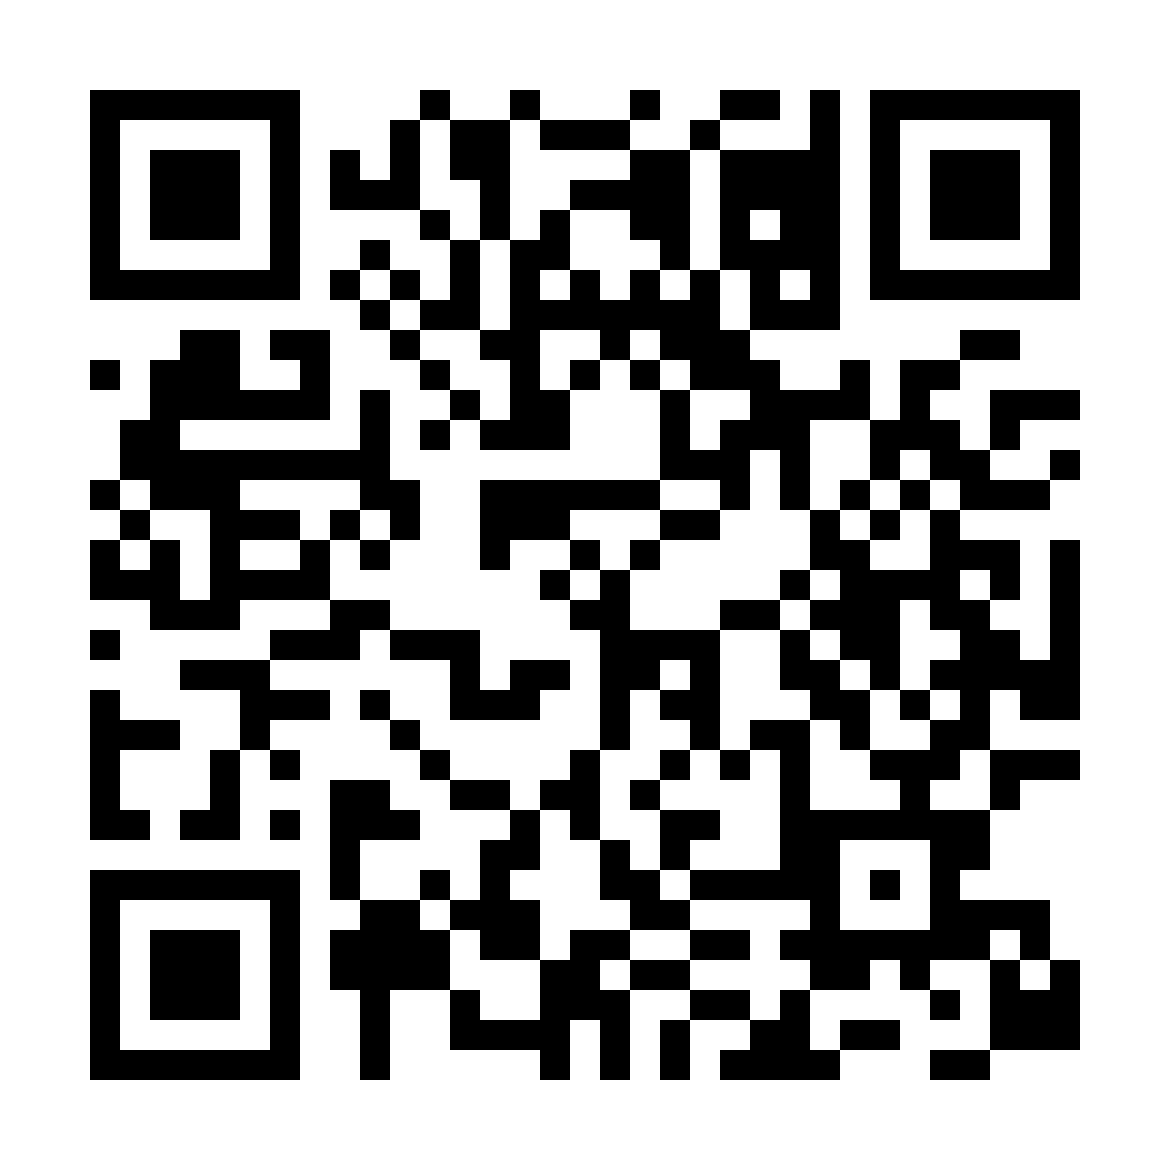
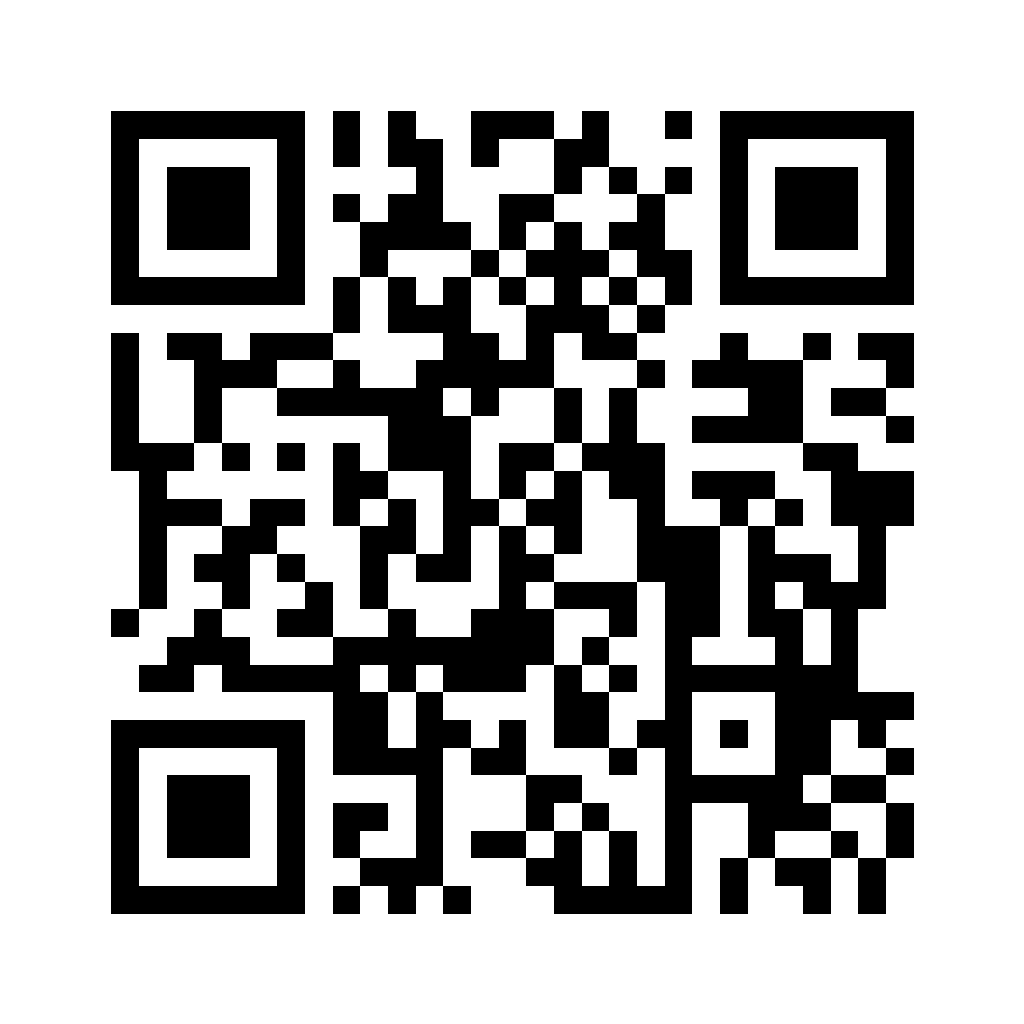
Update Personal Hub payment amount

diff --git a/scripts.js b/scripts.js
@@ -54,8 +54,8 @@ const translations = {
     serviceStatus: "Private beta",
     serviceTitle: "Personal Device Hub",
     serviceText: "Private Tailscale device hub for your own computers.",
-    servicePriceLabel: "One-time down payment",
-    servicePrice: "150 THB",
+    servicePriceLabel: "One-time payment",
+    servicePrice: "3000 THB",
     servicePriceNote: "Tailscale is required. Pay once for private beta setup access.",
     paymentStepOne: "Install or open Tailscale first.",
     paymentStepTwo: "Click Ready to pay when you are prepared to scan.",
@@ -64,13 +64,13 @@ const translations = {
     paymentReadyButton: "Ready to pay",
     paymentReadyNote: "This guide explains the app. The self-hosted package is sent after payment approval.",
     qrEyebrow: "Thai QR Payment",
-    qrTitle: "Scan TrueMoney for the 150 THB payment",
+    qrTitle: "Scan TrueMoney for the 3000 THB payment",
     qrText: "Tap the TrueMoney link or scan this fixed-amount QR, then upload your slip here. You do not need Telegram.",
-    openTrueMoneyLink: "Open 150 THB TrueMoney link",
+    openTrueMoneyLink: "Open 3000 THB TrueMoney link",
     trueMoneyHelpText: "If TrueMoney does not work for you, message us on Telegram before paying.",
     trueMoneyHelpLink: "Message @zalon123",
     slipCheckTitle: "Slip review required",
-    slipCheckText: "Access is approved only when the slip matches this TrueMoney account, exactly 150 THB, and your name. Wrong or reused slips are denied.",
+    slipCheckText: "Access is approved only when the slip matches this TrueMoney account, exactly 3000 THB, and your name. Wrong or reused slips are denied.",
     copied: "Copied",
     serviceButton: "Ask before paying",
     downloadSetupGuide: "Download setup guide",
@@ -170,8 +170,8 @@ const translations = {
     serviceStatus: "Private beta",
     serviceTitle: "Personal Device Hub",
     serviceText: "ကိုယ်ပိုင် computer များအတွက် private Tailscale device hub။",
-    servicePriceLabel: "တစ်ကြိမ် down payment",
-    servicePrice: "150 THB",
+    servicePriceLabel: "တစ်ကြိမ် payment",
+    servicePrice: "3000 THB",
     servicePriceNote: "Tailscale လိုအပ်သည်။ Private beta setup access အတွက် တစ်ကြိမ်သာ ပေးချေရန်။",
     paymentStepOne: "Tailscale ကို အရင် install/open လုပ်ပါ။",
     paymentStepTwo: "Scan လုပ်ရန် အသင့်ဖြစ်မှ Ready to pay ကို နှိပ်ပါ။",
@@ -180,13 +180,13 @@ const translations = {
     paymentReadyButton: "ပေးချေရန် အသင့်ဖြစ်ပြီ",
     paymentReadyNote: "ဤ guide သည် app အသုံးပြုပုံကို ရှင်းပြထားသည်။ Self-hosted package ကို payment approve ပြီးမှ ပို့ပါမည်။",
     qrEyebrow: "Thai QR Payment",
-    qrTitle: "150 THB payment အတွက် TrueMoney ကို Scan လုပ်ပါ",
+    qrTitle: "3000 THB payment အတွက် TrueMoney ကို Scan လုပ်ပါ",
     qrText: "TrueMoney link ကို နှိပ်ပါ သို့မဟုတ် fixed amount QR ကို scan လုပ်ပါ၊ ပြီးနောက် slip ပုံကို ဒီမှာ upload လုပ်ပါ။ Telegram မလိုပါ။",
-    openTrueMoneyLink: "150 THB TrueMoney link ဖွင့်ရန်",
+    openTrueMoneyLink: "3000 THB TrueMoney link ဖွင့်ရန်",
     trueMoneyHelpText: "TrueMoney ဖြင့် ပေးချေမရပါက မပေးချေမီ Telegram တွင် message ပို့ပါ။",
     trueMoneyHelpLink: "@zalon123 သို့ message ပို့ရန်",
     slipCheckTitle: "Slip စစ်ဆေးပြီးမှ approve",
-    slipCheckText: "Slip သည် ဤ TrueMoney account၊ 150 THB အတိအကျ၊ နှင့် သင့်နာမည်တို့နှင့် ကိုက်ညီမှ access approve လုပ်ပါမည်။ မှားသော သို့မဟုတ် ပြန်သုံးထားသော slip များကို deny လုပ်ပါမည်။",
+    slipCheckText: "Slip သည် ဤ TrueMoney account၊ 3000 THB အတိအကျ၊ နှင့် သင့်နာမည်တို့နှင့် ကိုက်ညီမှ access approve လုပ်ပါမည်။ မှားသော သို့မဟုတ် ပြန်သုံးထားသော slip များကို deny လုပ်ပါမည်။",
     copied: "Copy ပြီးပါပြီ",
     serviceButton: "မပေးခင် မေးရန်",
     downloadSetupGuide: "Setup guide download လုပ်ရန်",

diff --git a/index.html b/index.html
@@ -216,11 +216,11 @@
                 <h3 data-i18n="serviceTitle">Personal Device Hub</h3>
                 <p data-i18n="serviceText">Private Tailscale device hub for your own computers.</p>
               </div>
-              <strong data-i18n="servicePrice">150 THB</strong>
+              <strong data-i18n="servicePrice">3000 THB</strong>
             </div>
 
-            <div class="payment-row" aria-label="Personal Device Hub down payment price">
-              <span data-i18n="servicePriceLabel">One-time down payment</span>
+            <div class="payment-row" aria-label="Personal Device Hub one-time payment price">
+              <span data-i18n="servicePriceLabel">One-time payment</span>
               <small data-i18n="servicePriceNote">Tailscale is required. Pay once for private beta setup access.</small>
             </div>
 
@@ -247,16 +247,16 @@
           <i class="fas fa-xmark" aria-hidden="true"></i>
         </button>
         <div class="qr-frame">
-          <img data-qr-src="./img/personal-hub-thai-payment-qr.png" alt="Fixed 150 THB TrueMoney payment link QR for Personal Device Hub">
+          <img data-qr-src="./img/personal-hub-thai-payment-qr.png" alt="Fixed 3000 THB TrueMoney payment link QR for Personal Device Hub">
         </div>
         <div>
           <span class="eyebrow" data-i18n="qrEyebrow">Thai QR Payment</span>
-          <h3 id="payment-dialog-title" data-i18n="qrTitle">Scan TrueMoney for the 150 THB payment</h3>
+          <h3 id="payment-dialog-title" data-i18n="qrTitle">Scan TrueMoney for the 3000 THB payment</h3>
           <p data-i18n="qrText">After payment, enter your name and upload the slip picture here. You do not need Telegram.</p>
           <div class="payment-actions">
-            <a class="primary-button" href="https://tmn.app.link/y4SAhfU1Q5b" target="_blank" rel="noopener noreferrer">
+            <a class="primary-button" href="https://tmn.app.link/oYZw98YDT5b" target="_blank" rel="noopener noreferrer">
               <i class="fas fa-wallet" aria-hidden="true"></i>
-              <span data-i18n="openTrueMoneyLink">Open 150 THB TrueMoney link</span>
+              <span data-i18n="openTrueMoneyLink">Open 3000 THB TrueMoney link</span>
             </a>
           </div>
           <p class="payment-help">
@@ -265,7 +265,7 @@
           </p>
           <div class="slip-check">
             <strong data-i18n="slipCheckTitle">Slip review required</strong>
-            <p data-i18n="slipCheckText">Access is approved only when the slip matches this TrueMoney account, exactly 150 THB, and your name. Wrong or reused slips are denied.</p>
+            <p data-i18n="slipCheckText">Access is approved only when the slip matches this TrueMoney account, exactly 3000 THB, and your name. Wrong or reused slips are denied.</p>
           </div>
           <form class="payment-form" data-payment-form enctype="multipart/form-data">
             <input type="text" name="website" tabindex="-1" autocomplete="off" aria-hidden="true">

diff --git a/api/payment-slip.js b/api/payment-slip.js
@@ -179,7 +179,7 @@ async function sendSlipToTelegram({ requestId, fields, file, request }) {
   const name = clean(fields.name, 80);
   const email = clean(fields.email, 120).toLowerCase();
   const host = clean(request.headers.host, 120);
-  const expectedAmount = clean(process.env.PAYMENT_EXPECTED_AMOUNT || "150 THB", 40);
+  const expectedAmount = clean(process.env.PAYMENT_EXPECTED_AMOUNT || "3000 THB", 40);
 
   const message = [
     "Paid User payment slip",

diff --git a/downloads/personal-device-hub-setup-readme.md b/downloads/personal-device-hub-setup-readme.md
@@ -11,7 +11,7 @@ The real app installer is not inside this file. After your payment slip is appro
 ## How You Use The App
 
 1. Install Tailscale on your own computers and sign in.
-2. Pay the `150 THB` down payment on the Echtit Services page.
+2. Pay the `3000 THB` one-time payment on the Echtit Services page.
 3. Submit your name, Gmail address, and payment slip picture in the web form.
 4. Wait for manual approval.
 5. Receive your self-hosted private install zip by Gmail within one day after approval.
@@ -36,23 +36,23 @@ You need:
 1. Open the Echtit Services section.
 2. Click `Ready to pay`.
 3. Tap the TrueMoney payment link or scan the fixed-amount QR in the popup.
-4. Pay exactly `150 THB`.
+4. Pay exactly `3000 THB`.
 5. Fill the payment form with your name, Gmail address, and slip picture.
 6. Submit the form.
 
-The TrueMoney link opens a `฿150.00` transfer with the message `for private hub`. The QR is generated from the same link, so scanning it with a phone camera opens that fixed-amount transfer flow.
+The TrueMoney link opens a `฿3000.00` transfer with the message `for private hub`. The QR is generated from the same link, so scanning it with a phone camera opens that fixed-amount transfer flow.
 
 The form sends your slip to the owner for review:
 
 ```text
 Personal Device Hub payment slip
-I paid the 150 THB down payment.
+I paid the 3000 THB one-time payment.
 Name:
 Gmail:
 Slip picture:
 ```
 
-Access is approved only after the slip is manually checked. The amount must be exactly `150 THB`. Wrong, reused, unclear, or mismatched slips are denied.
+Access is approved only after the slip is manually checked. The amount must be exactly `3000 THB`. Wrong, reused, unclear, or mismatched slips are denied.
 
 If TrueMoney does not work for you, message `@zalon123` on Telegram before paying. After approval, the install zip is sent to the Gmail address you entered in the form within one day.
 

diff --git a/README.md b/README.md
@@ -5,17 +5,17 @@ Cybersecurity course and services website for Echtit.
 ## Sections
 
 - Course announcement: Steganography & CTF coming soon, with no public price shown yet.
-- Services: Personal Device Hub private beta with a `150 THB` one-time down payment.
+- Services: Personal Device Hub private beta with a `3000 THB` one-time payment.
 - Selected work: writeups and videos.
 - Contact: Telegram inquiry through `@zalon123`.
 
 ## Personal Device Hub Service
 
-Personal Device Hub is presented as a private Tailscale device-control app with a `150 THB` one-time down payment. The public site reveals the fixed TrueMoney payment QR only after the customer clicks ready to pay, then collects the buyer name, delivery Gmail, and payment slip picture for manual review.
+Personal Device Hub is presented as a private Tailscale device-control app with a `3000 THB` one-time payment. The public site reveals the fixed TrueMoney payment QR only after the customer clicks ready to pay, then collects the buyer name, delivery Gmail, and payment slip picture for manual review.
 
 The public Services section is intentionally minimal. The public setup guide in `downloads/personal-device-hub-setup-readme.md` explains how the app works, but the self-hosted private installer package is delivered only after payment approval.
 
-The Ready to pay popup includes a TrueMoney payment link for the fixed `฿150.00` amount with the message `for private hub`. The QR image is generated from that same link, so a phone camera scan opens the fixed-amount TrueMoney transfer flow.
+The Ready to pay popup includes a TrueMoney payment link for the fixed `฿3000.00` amount with the message `for private hub`. The QR image is generated from that same link, so a phone camera scan opens the fixed-amount TrueMoney transfer flow.
 
 ## Paid User Slip Form
 
